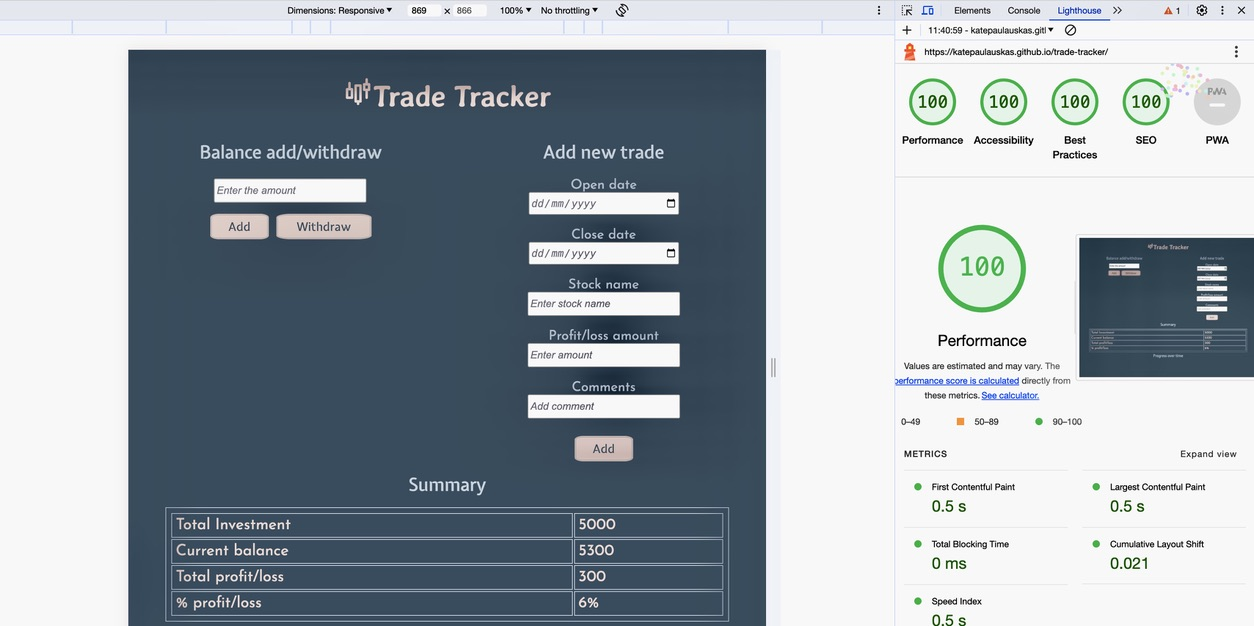
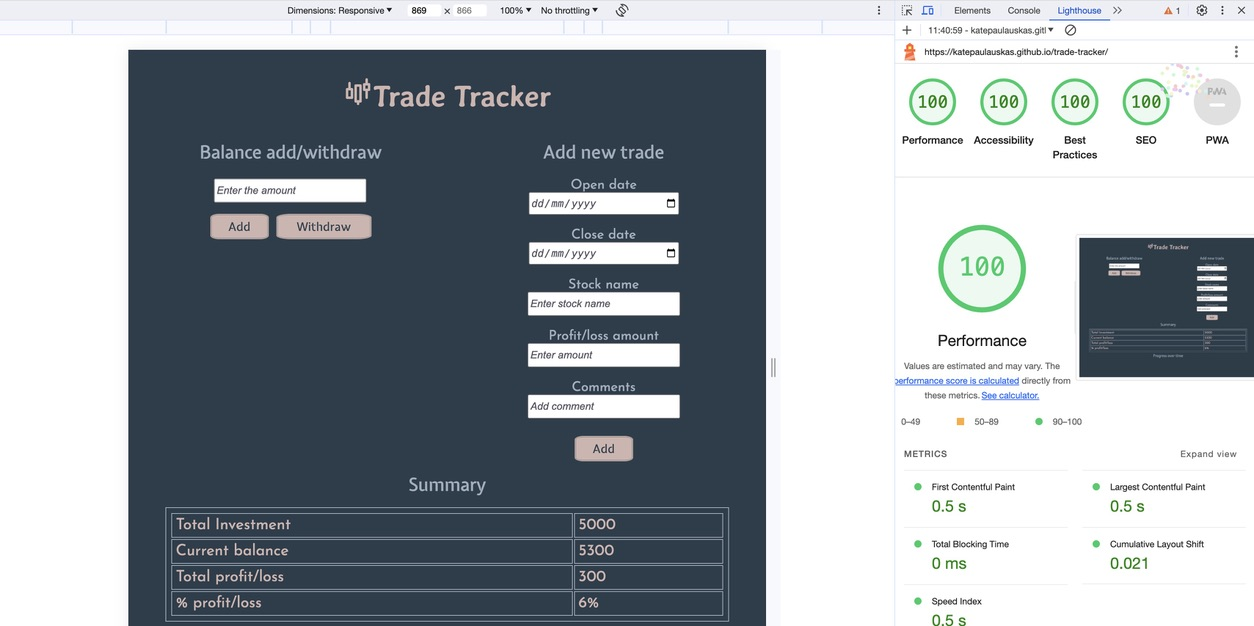
Update accessibility media files. Beautify HTML, CSS and JavaScript codes.

diff --git a/index.html b/index.html
@@ -1,108 +1,154 @@
 <!DOCTYPE html>
 <html lang="en">
-
-<head>
+  <head>
     <meta charset="UTF-8" />
     <meta http-equiv="X-UA-Compatible" content="IE=edge" />
     <meta name="viewport" content="width=device-width, initial-scale=1.0" />
     <!-- Meta tags for search engine optimisation -->
-    <meta name="description"
-        content="Track your trading progress and analyze your performance with Trade Tracker. Trade Tracker helps you to record, monitor, and control your trades, generate a summary of your trading journey, track your profit and loss, and as a result enhance your trading strategy." />
-    <meta name="keywords"
-        content="Stock trading tracker, trading journal, stock portfolio tracker, investment tracker, monitor trading progress, profit loss calculator" />
+    <meta
+      name="description"
+      content="Track your trading progress and analyze your performance with Trade Tracker. Trade Tracker helps you to record, monitor, and control your trades, generate a summary of your trading journey, track your profit and loss, and as a result enhance your trading strategy."
+    />
+    <meta
+      name="keywords"
+      content="Stock trading tracker, trading journal, stock portfolio tracker, investment tracker, monitor trading progress, profit loss calculator"
+    />
     <!-- Add title tag / browser tab title -->
     <title>Trade Tracker</title>
     <!-- Fivacon -->
-    <link rel="icon" href="assets/favicon/trade-tracker-favicon-blue.webp" type="image/webp" />
+    <link
+      rel="icon"
+      href="assets/favicon/trade-tracker-favicon-blue.webp"
+      type="image/webp"
+    />
     <!-- Stylesheet -->
     <link rel="stylesheet" href="assets/css/style.css" />
-</head>
+  </head>
 
-<body>
+  <body>
     <!-- Heading -->
     <h1 class="heading">
-        <iconify-icon icon="icon-park-outline:stock-market"></iconify-icon>Trade Tracker
+      <iconify-icon icon="icon-park-outline:stock-market"></iconify-icon>Trade
+      Tracker
     </h1>
     <!-- Entry Area -->
     <section class="entry-area">
-        <!-- Balance Section -->
-        <div class="update-balance">
-            <!-- Heading to be used on larder screens instead of button -->
-            <h2 class="balance">Balance add/withdraw</h2>
-            <!-- Button for mobile only -->
-            <button class="new-entry">Balance add/withdraw</button>
-            <div class="collapsable-entry-area">
-                <form id="balance-form">
-                <input type="number" name="balance-box"  id="balance-box" placeholder="Enter the amount" required/>
-                <div class="balance-action-buttons">
-                    <!-- Set button to 'button' type to prevent submissions. Source: https://developer.mozilla.org/en-US/docs/Web/HTML/Element/input/button -->
-                    <button id="add-balance" type="button">Add</button>
-                    <button id="withdraw-balance" type="button">Withdraw</button>
-                </div>
-                </form>
+      <!-- Balance Section -->
+      <div class="update-balance">
+        <!-- Heading to be used on larder screens instead of button -->
+        <h2 class="balance">Balance add/withdraw</h2>
+        <!-- Button for mobile only -->
+        <button class="new-entry">Balance add/withdraw</button>
+        <div class="collapsable-entry-area">
+          <form id="balance-form">
+            <input
+              type="number"
+              name="balance-box"
+              id="balance-box"
+              placeholder="Enter the amount"
+              required
+            />
+            <div class="balance-action-buttons">
+              <!-- Set button to 'button' type to prevent submissions. Source: https://developer.mozilla.org/en-US/docs/Web/HTML/Element/input/button -->
+              <button id="add-balance" type="button">Add</button>
+              <button id="withdraw-balance" type="button">Withdraw</button>
             </div>
+          </form>
         </div>
-        <!-- Add Trades Section -->
-        <div class="add-trades">
-            <!-- Heading to be used on larder screens instead of button -->
-            <h2 class="new-trade">Add new trade</h2>
-            <!-- Button for mobile only -->
-            <button class="new-entry">Add new trade</button>
-            <div class="collapsable-entry-area">
-                <form id="add-trade">
-                    <label for="open-date">Open date</label>
-                    <input type="date" name="open-date" id="open-date" class="date-input" required />
-                    <br />
-                    <label for="close-date">Close date</label>
-                    <input type="date" name="close-date" id="close-date" class="date-input" required />
-                    <br />
-                    <label for="stock">Stock name</label>
-                    <input type="text" name="stock" id="stock" class="date-input" placeholder="Enter stock name" required />
-                    <br />
-                    <label for="result">Profit/loss amount</label>
-                    <input type="number" name="result" id="result" class="date-input" placeholder="Enter amount" required />
-                    <br />
-                    <label for="comments">Comments</label>
-                    <input type="text" name="comments" id="comments" class="date-input" placeholder="Add comment" required />
-                    <br />
-                    <button type="button" id="add-trade-button">Add</button>
-                </form>
-            </div>
+      </div>
+      <!-- Add Trades Section -->
+      <div class="add-trades">
+        <!-- Heading to be used on larder screens instead of button -->
+        <h2 class="new-trade">Add new trade</h2>
+        <!-- Button for mobile only -->
+        <button class="new-entry">Add new trade</button>
+        <div class="collapsable-entry-area">
+          <form id="add-trade">
+            <label for="open-date">Open date</label>
+            <input
+              type="date"
+              name="open-date"
+              id="open-date"
+              class="date-input"
+              required
+            />
+            <br />
+            <label for="close-date">Close date</label>
+            <input
+              type="date"
+              name="close-date"
+              id="close-date"
+              class="date-input"
+              required
+            />
+            <br />
+            <label for="stock">Stock name</label>
+            <input
+              type="text"
+              name="stock"
+              id="stock"
+              class="date-input"
+              placeholder="Enter stock name"
+              required
+            />
+            <br />
+            <label for="result">Profit/loss amount</label>
+            <input
+              type="number"
+              name="result"
+              id="result"
+              class="date-input"
+              placeholder="Enter amount"
+              required
+            />
+            <br />
+            <label for="comments">Comments</label>
+            <input
+              type="text"
+              name="comments"
+              id="comments"
+              class="date-input"
+              placeholder="Add comment"
+              required
+            />
+            <br />
+            <button type="button" id="add-trade-button">Add</button>
+          </form>
         </div>
+      </div>
     </section>
     <!-- Summary Section -->
     <section class="summary">
-        <h3 class="trading-summary">Summary</h3>
-        <table id="summary-table">
-            <tr>
-                <td>Total Investment</td>
-                <td id="total-investment">0</td>
-            </tr>
+      <h3 class="trading-summary">Summary</h3>
+      <table id="summary-table">
+        <tr>
+          <td>Total Investment</td>
+          <td id="total-investment">0</td>
+        </tr>
 
-            <tr>
-                <td>Current balance</td>
-                <td id="current-balance">0</td>
-            </tr>
+        <tr>
+          <td>Current balance</td>
+          <td id="current-balance">0</td>
+        </tr>
 
-            <tr>
-                <td>Total profit/loss</td>
-                <td id="total-profit-loss">0</td>
-            </tr>
+        <tr>
+          <td>Total profit/loss</td>
+          <td id="total-profit-loss">0</td>
+        </tr>
 
-            <tr>
-                <td>% profit/loss</td>
-                <td id="profit-loss-percent">0</td>
-            </tr>
-        </table>
+        <tr>
+          <td>% profit/loss</td>
+          <td id="profit-loss-percent">0</td>
+        </tr>
+      </table>
     </section>
     <!--  Progress over time Section -->
     <section class="trend">
-        <h3 class="progress">Progress over time</h3>
+      <h3 class="progress">Progress over time</h3>
     </section>
     <!-- IconifyIcon web component -->
     <script src="https://code.iconify.design/iconify-icon/1.0.7/iconify-icon.min.js"></script>
 
     <script src="assets/js/script.js"></script>
-</body>
-
+  </body>
 </html>

diff --git a/assets/css/style.css b/assets/css/style.css
@@ -45,12 +45,13 @@ label {
 
 /* Apply style to input fields */
 
-input, input::placeholder {
+input,
+input::placeholder {
     color: #535361;
     font-size: 14px;
     font-style: italic;
     justify-content: center;
-    
+
 }
 
 /* Style enty area */
@@ -195,14 +196,14 @@ td {
     #add-balance,
     #withdraw-balance,
     #add-trade-button {
-    font-size: 100%;
-    
-    /* Add on-hover effect on buttons */
+        font-size: 100%;
+
+        /* Add on-hover effect on buttons */
         #add-balance:hover,
         #withdraw-balance:hover,
         #add-trade-button:hover {
-    background-color: #2b3c4b;
-    border-color: #8a8fa1;
-    color: #ceb4af;
+            background-color: #2b3c4b;
+            border-color: #8a8fa1;
+            color: #ceb4af;
+        }
     }
-}
